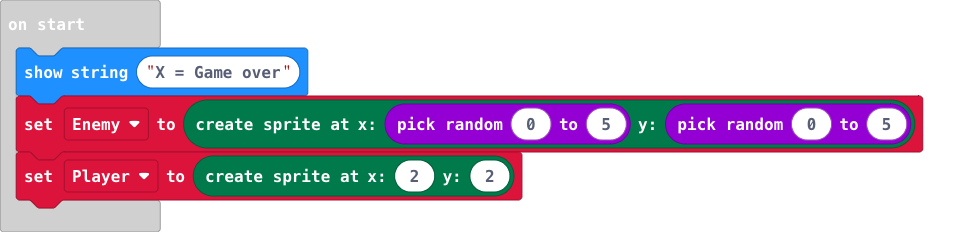
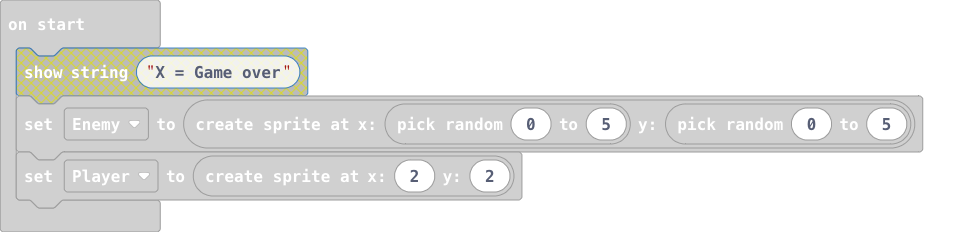
Update main.blocks, main.ts

diff --git a/main.ts b/main.ts
@@ -11,7 +11,6 @@ input.onGesture(Gesture.LogoDown, function () {
     Player.change(LedSpriteProperty.Y, -1)
 })
 let Player: game.LedSprite = null
-basic.showString("X = Game over")
 let Enemy = game.createSprite(randint(0, 5), randint(0, 5))
 Player = game.createSprite(2, 2)
 basic.forever(function () {
